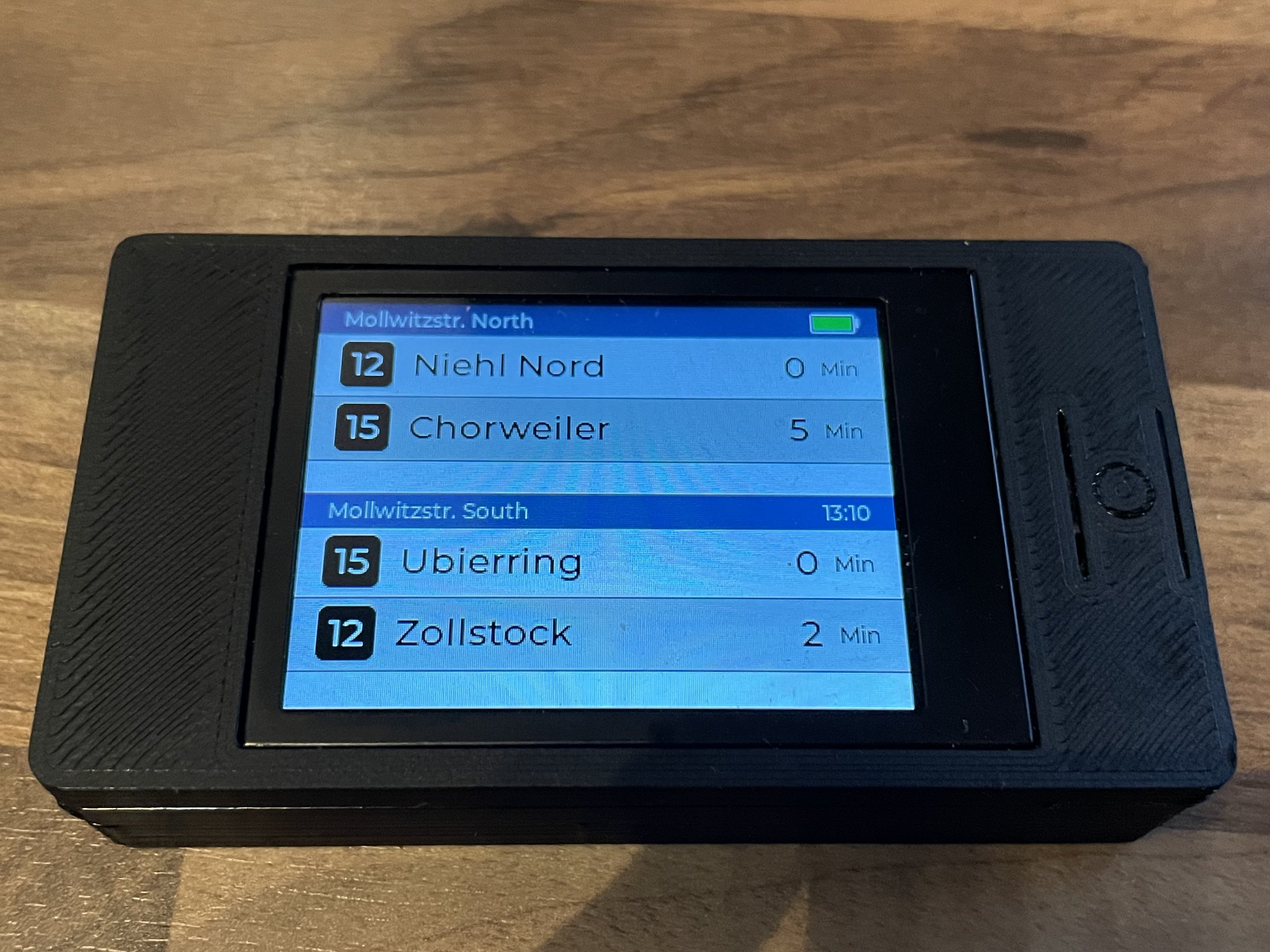
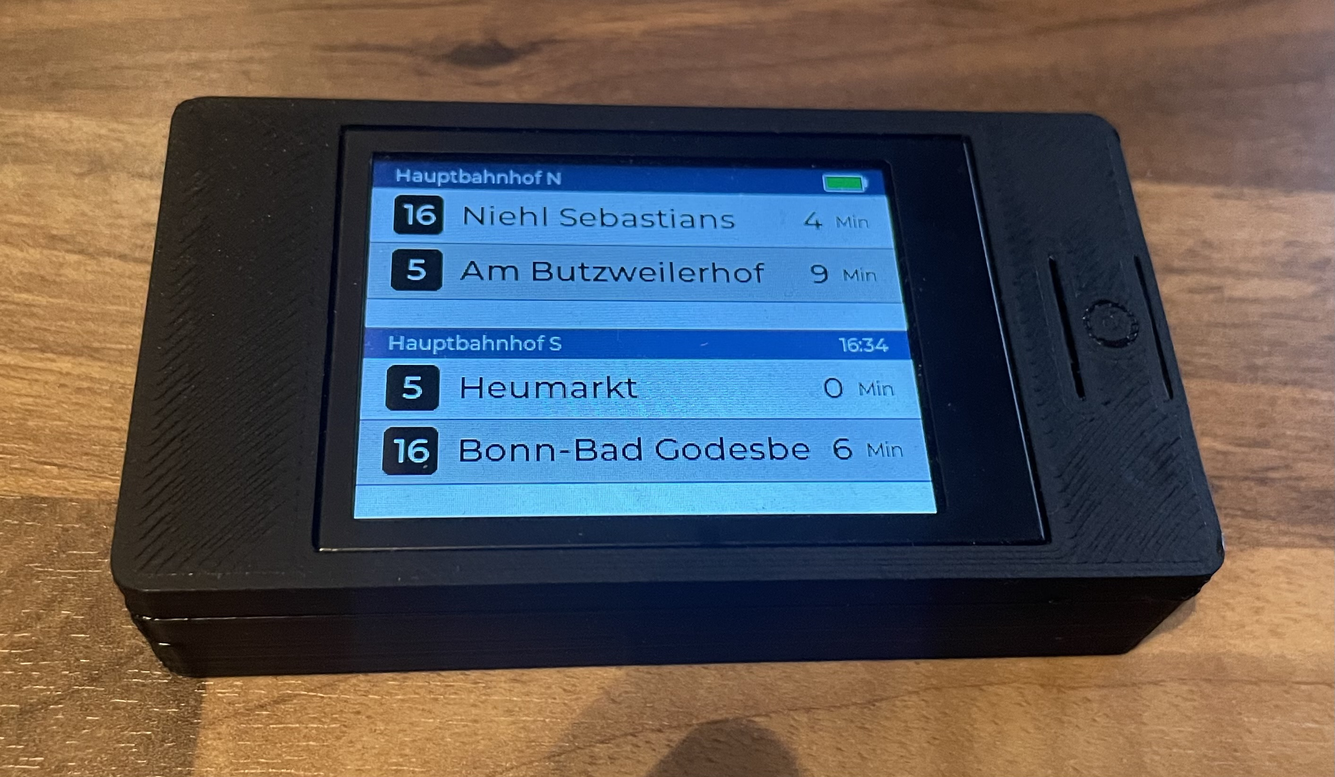
Update README.

diff --git a/README.md b/README.md
@@ -1,4 +1,4 @@
-# Public Transportation Monitor
+# Departure Board
 
 This is a little project for a public transportation departure board.
 It was mostly designed around the KVB/VRS API in Cologne but it also includes a
@@ -24,7 +24,11 @@ should last about 3 months on one charge when used twice daily.
 
 The other variant is a more expensive E-Ink display version that is constantly
 powered and holds the current departures. Intended as your own departure board
-at home. (WIP)
+at home.
+
+<p align="center">
+  <img src="doc/monitor_eink.jpeg" alt="EInk monitor showing the next departures" width="60%">
+</p>
 
 ## Configuration
 
@@ -108,6 +112,10 @@ The software also runs two MOSFET circuits on a custom shield to power down the 
 voltage divider on the shield during sleep.
 
 <p align="center">
+  <img src="doc/bat_circuit.png" alt="Circuit of the battery variant: battery with a current meter header, switched battery sense divider, switched display supply, LCD connector and button" width="90%">
+</p>
+
+<p align="center">
   <img src="doc/lcd_front.jpeg" alt="2.4 inch SPI LCD module, front" width="47.3%">
   <img src="doc/lcd_back.jpeg" alt="2.4 inch SPI LCD module, back" width="42.7%">
 </p>
@@ -118,7 +126,18 @@ voltage divider on the shield during sleep.
 </p>
 
 (Notes: The DFR1117 already includes a voltage divider on the board but the
-readings seem off. TODO).
+readings seem off. Also shutting down the display via commands did not result
+in the expected power savings. Thus the first version has its own display
+rails that can be turned off and a external voltage divider. TODO: investigate).
+
+The e-ink device uses the same module with a 3.7 inch 240 x 416 e-paper display with a UC8253
+controller, powered over USB-C. It needs no shield, the display and the button are wired directly.
+The button connects GPIO 4 to GND, with an external 10 kΩ pull-up from GPIO 4 to 3V3, so a press
+reads as low.
+
+<p align="center">
+  <img src="doc/eink_wiring.png" alt="Wiring of the e-ink variant: Beetle ESP32-C6 pins labelled with the e-paper module and button connections" width="40%">
+</p>
 
 # Development
 
@@ -163,8 +182,8 @@ west blobs fetch hal_espressif
 Run these in every new shell before building.
 
 ```sh
-source ~/Workspace/zephyrproject/.venv/bin/activate
-source ~/Workspace/zephyrproject/zephyr/zephyr-env.sh
+source ~/workspace/zephyrproject/.venv/bin/activate
+source ~/workspace/zephyrproject/zephyr/zephyr-env.sh
 ```
 
 ## Debug
